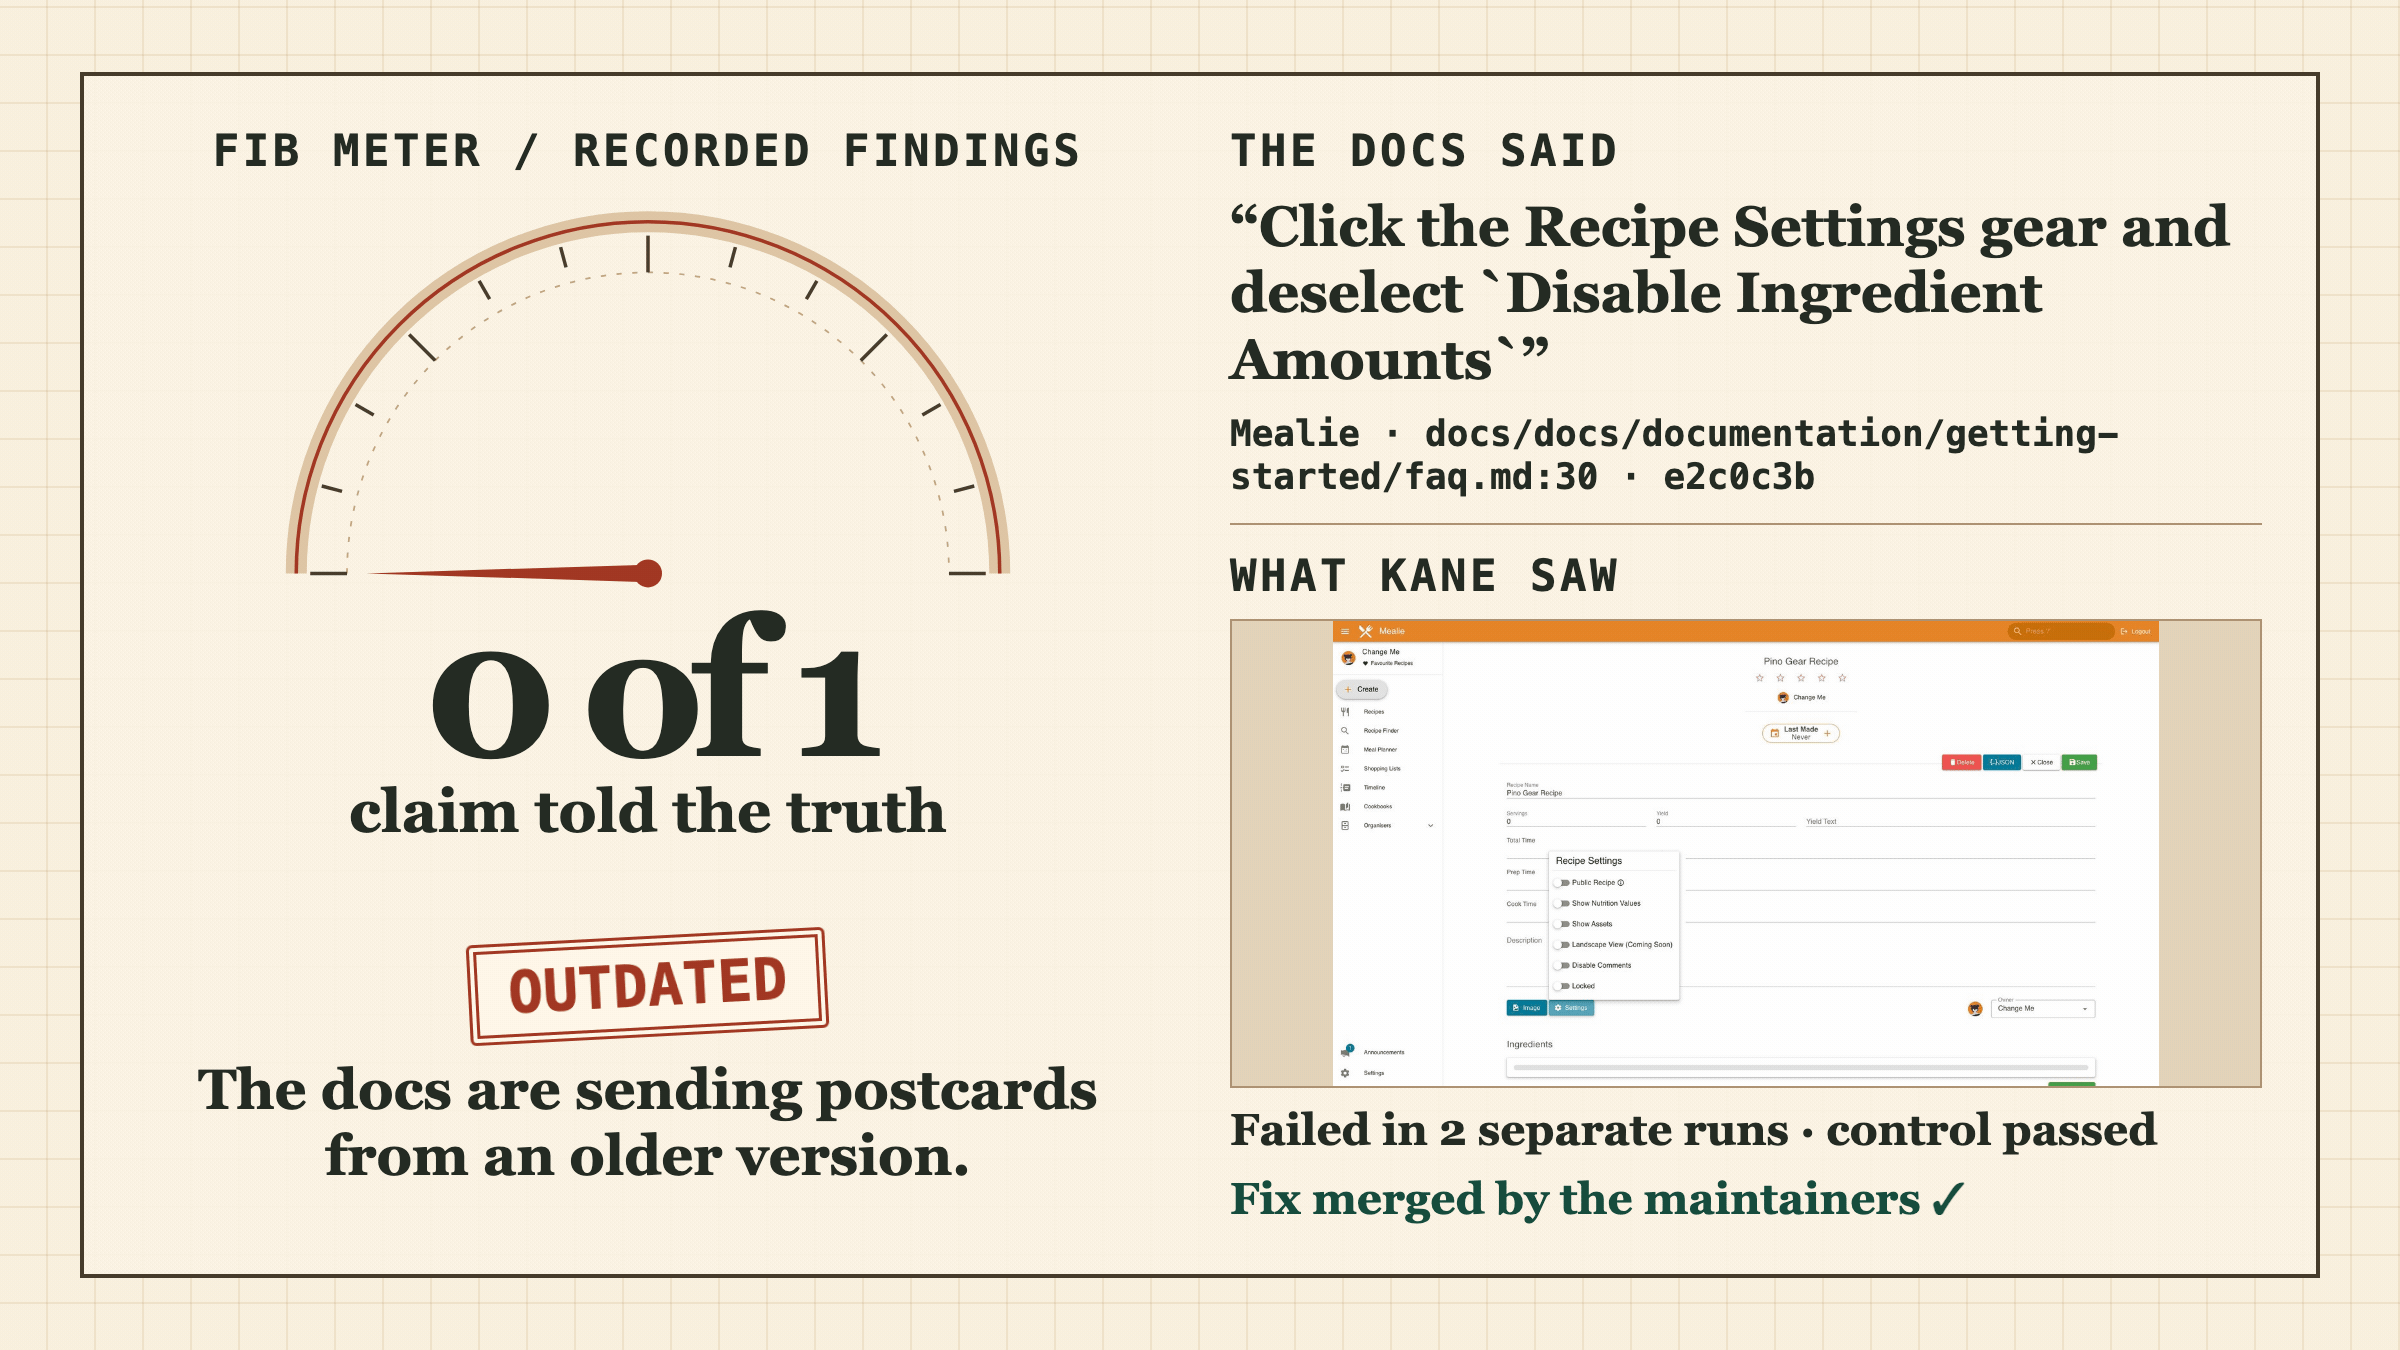
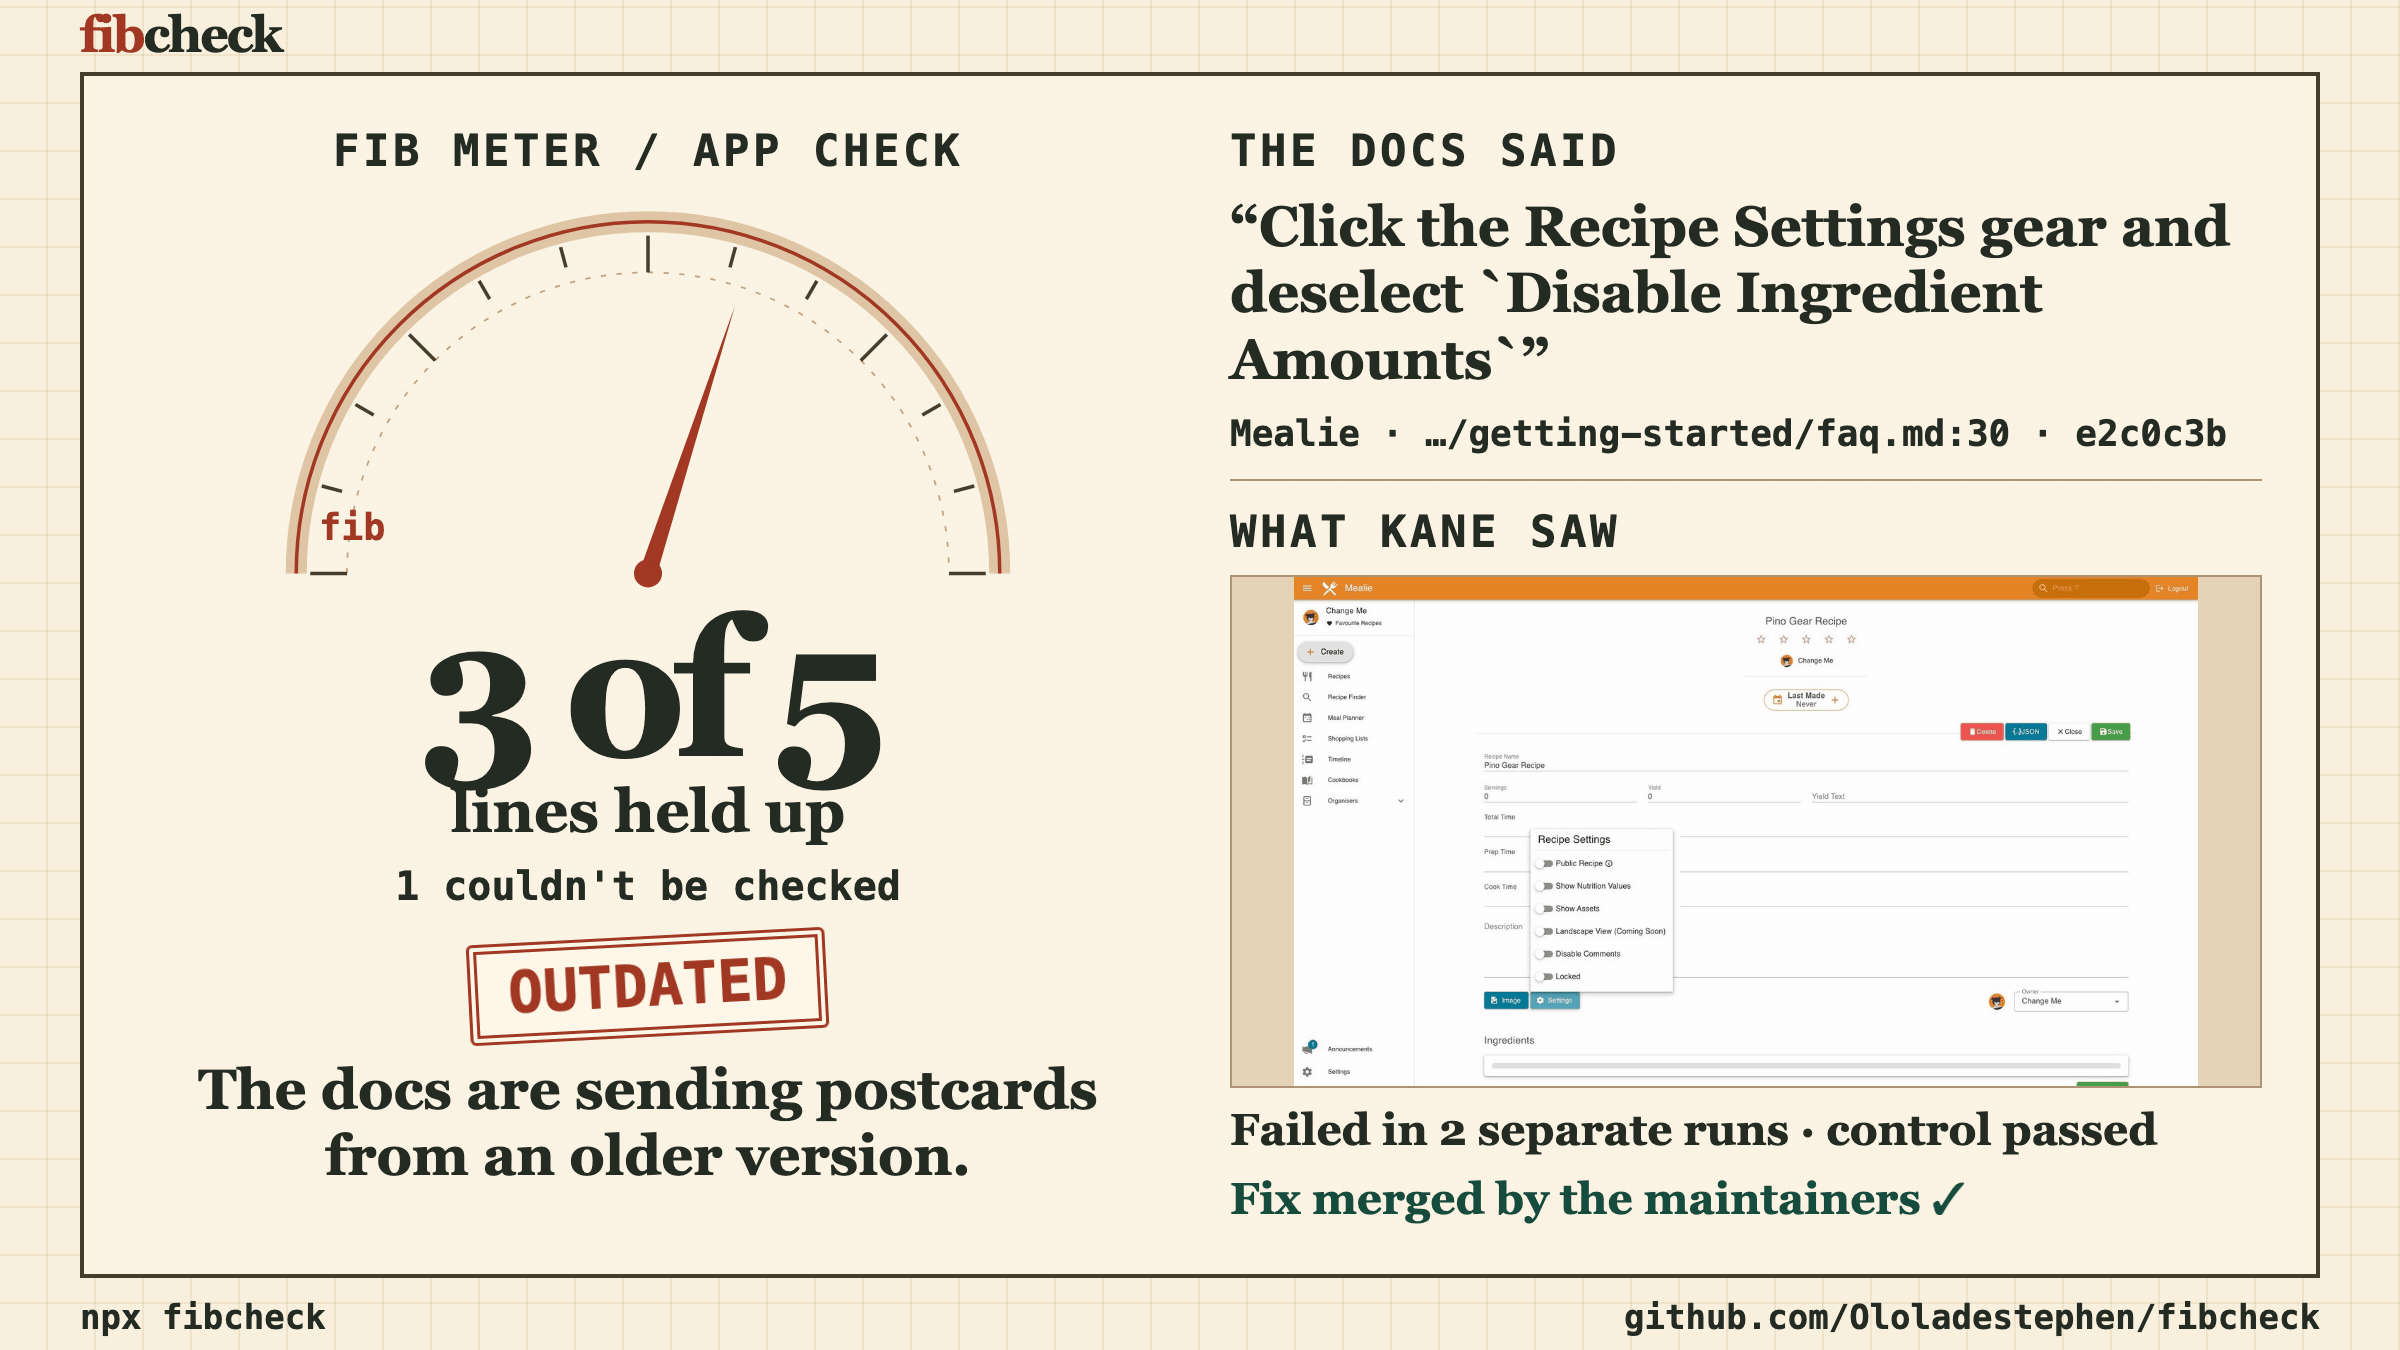
Show app scores and sharpen the card animation

diff --git a/src/card/html.ts b/src/card/html.ts
@@ -7,8 +7,8 @@ const escapeHtml = (text: string) => text.replace(/[&<>"'`]/g, (character) => en
 export function renderCardHtml(finding: Finding, imageDataUrl: string, entries: readonly Finding[] = [finding], seconds = 3): string {
   const text = cardText(finding, entries);
   const time = Number.isFinite(seconds) ? Math.max(0, Math.min(seconds, 3)) : 3;
-  const angle = text.resolved ? -90 + 180 * text.held / text.resolved : 0;
-  const count = Math.round(text.held * Math.min(1, Math.max(0, (time - 0.55) / 1.05)));
+  const angle = text.denominator ? -90 + 180 * text.held / text.denominator : 0;
+  const count = Math.round(text.held * Math.min(1, Math.max(0, (time - 1.2) / 0.7)));
   const tone = finding.verdict === "true" || finding.verdict === "worded_differently" ? "#164c3d" : finding.verdict === "unconfirmed" ? "#5a544b" : "#a13722";
   const ticks = Array.from({ length: 13 }, (_, i) => `<line x1="240" y1="27" x2="240" y2="${i % 3 === 0 ? 48 : 39}" transform="rotate(${i * 15 - 90} 240 220)"/>`).join("");
   return `<!doctype html>
@@ -27,35 +27,38 @@ main{display:grid;grid-template-columns:510px minmax(0,1fr);grid-template-rows:m
 .truth{font:bold 30px/1.13 Georgia,serif}
 .notes{font-size:20px;min-height:27px;margin-top:8px}
 .verdict{text-align:center;margin-top:10px}
-.stamp{display:inline-block;border:5px double currentColor;border-radius:3px;background:#fff7e9;color:var(--tone);padding:2px 15px;font:900 29px/1.25 Menlo,Consolas,monospace;animation:land 2.35s linear var(--time) both paused}
+.stamp{display:inline-block;border:5px double currentColor;border-radius:3px;background:#fff7e9;color:var(--tone);padding:2px 15px;font:900 29px/1.25 Menlo,Consolas,monospace;animation:land 2.1s linear var(--time) both paused}
 .caption{font:bold 28px/1.18 Georgia,serif;margin:10px auto 0;max-width:510px}
 .right{min-width:0;display:grid;grid-template-rows:minmax(164px,auto) minmax(0,1fr);gap:12px}
-.quote{font:bold 28px/1.19 Georgia,serif;margin:8px 0 9px;overflow-wrap:anywhere}
-.source{font-size:18px;overflow-wrap:anywhere}
+.quote{font:bold 28px/1.19 Georgia,serif;margin:8px 0 9px;overflow-wrap:normal}
+.source{font-size:18px;overflow-wrap:normal}
 .proof{border-top:1px solid #ad9273;padding-top:12px;display:flex;flex-direction:column;min-height:0}
 .shot{margin-top:8px;flex:1 1 265px;max-height:265px;min-height:0;background:#e3d3b9;border:1px solid #ad9273}
 .shot img{display:block;width:100%;height:100%;object-fit:contain}
 .evidence{font:700 22px/1.21 Georgia,serif;margin-top:8px;flex:none}
 .merged{color:#164c3d}
-.needle{transform-origin:240px 220px;animation:needle 1.65s ease-in-out var(--time) both paused}
-@keyframes needle{0%{transform:rotate(-86deg)}9%{transform:rotate(-51deg)}17%{transform:rotate(-100deg)}25%{transform:rotate(-35deg)}34%{transform:rotate(-83deg)}100%{transform:rotate(var(--angle))}}
-@keyframes land{0%,74%{opacity:0;transform:translateY(-4px) rotate(-3deg) scale(1.08)}75%{opacity:1;transform:translateY(-4px) rotate(-3deg) scale(1.08)}87%{transform:translateY(4px) rotate(-3deg) scale(.98)}94%{transform:translateY(-5px) rotate(-4deg)}100%{opacity:1;transform:rotate(-3deg)}}
+.fib{font:700 21px Menlo,Consolas,monospace;fill:#a13722}
+.needle{transform-origin:240px 220px;animation:needle 1.85s linear var(--time) both paused}
+@keyframes needle{0%{transform:rotate(-85deg)}5.4%{transform:rotate(82deg)}10.8%{transform:rotate(-72deg)}16.2%{transform:rotate(71deg)}21.6%{transform:rotate(-86deg)}27%{transform:rotate(37deg)}32.4%{transform:rotate(-51deg)}37.8%{transform:rotate(84deg)}43.2%{transform:rotate(-80deg)}48.6%{transform:rotate(61deg)}54%{transform:rotate(-39deg)}59.4%{transform:rotate(80deg)}64.9%{transform:rotate(-62deg);animation-timing-function:cubic-bezier(.2,.8,.3,1)}100%{transform:rotate(var(--angle))}}
+@keyframes land{0%,90%{opacity:0;transform:translateY(-4px) rotate(-3deg) scale(1.08)}91%{opacity:1;transform:translateY(-4px) rotate(-3deg) scale(1.08)}94%{transform:translateY(4px) rotate(-3deg) scale(.98)}97%{transform:translateY(-3px) rotate(-4deg)}100%{opacity:1;transform:rotate(-3deg)}}
+.wordmark,.byline{position:absolute;left:40px;right:40px;color:var(--ink)}.wordmark{top:5px;font:bold 25px/1 Georgia,serif;letter-spacing:-.04em}.wordmark span{color:#a13722}.byline{bottom:8px;display:flex;justify-content:space-between;font:600 17px/1 Menlo,Consolas,monospace}
 </style></head>
-<body><main><section class="left" aria-label="Recorded findings score">
-<div class="label">Fib meter / Recorded findings</div>
+<body><header class="wordmark"><span>fib</span>check</header><main><section class="left" aria-label="${escapeHtml(text.scope)} score">
+<div class="label">Fib meter / ${escapeHtml(text.scope)}</div>
 <svg class="meter" viewBox="0 0 480 235" aria-hidden="true">
 <path d="M39 220a201 201 0 0 1 402 0" fill="none" stroke="#dec6a5" stroke-width="12"/>
 <path d="M39 220a201 201 0 0 1 402 0" fill="none" stroke="currentColor" stroke-width="2"/>
 <path d="M68 220a172 172 0 0 1 344 0" fill="none" stroke="#bea583" stroke-width="1" stroke-dasharray="3 6"/>
 <g stroke="#493c2a" stroke-width="2">${ticks}</g>
+<text class="fib" x="52" y="201">fib</text>
 ${text.resolved ? '<path class="needle" d="M235 220L240 59l5 161Z" fill="currentColor"/>' : ""}<circle cx="240" cy="220" r="8" fill="currentColor"/>
 </svg>
-${text.resolved ? `<div aria-label="${escapeHtml(text.score)}"><div class="score">${count} of ${text.resolved}</div><div class="truth">${text.resolved === 1 ? "claim" : "claims"} told the truth</div></div>` : `<div class="score empty">${escapeHtml(text.score)}</div>`}
+${text.denominator ? `<div aria-label="${escapeHtml(text.score)}"><div class="score">${count} of ${text.denominator}</div><div class="truth">${escapeHtml(text.suffix)}</div></div>` : `<div class="score empty">${escapeHtml(text.score)}</div>`}
 <div class="notes">${escapeHtml(text.note)}</div>
 <div class="verdict"><div class="stamp">${escapeHtml(text.stamp)}</div><p class="caption">${escapeHtml(text.caption)}</p></div>
 </section><aside class="right"><section><div class="label">The docs said</div><blockquote class="quote">“${escapeHtml(text.quote)}”</blockquote><p class="source">${escapeHtml(text.source)}</p></section>
 <figure class="proof"><figcaption class="label">What Kane saw</figcaption><div class="shot"><img alt="Kane screenshot, scaled only" src="${escapeHtml(imageDataUrl)}"></div>
 ${text.evidence ? `<div class="evidence">${escapeHtml(text.evidence)}</div>` : ""}${text.merged ? `<div class="evidence merged">${escapeHtml(text.merged)}</div>` : ""}</figure>
-</aside></main></body></html>
+</aside></main><footer class="byline"><b>npx fibcheck</b><span>github.com/Ololadestephen/fibcheck</span></footer></body></html>
 `;
 }

diff --git a/src/card/copy.ts b/src/card/copy.ts
@@ -23,6 +23,18 @@ const ownCaptions: Partial<typeof captions> = {
   outdated: ["Our README is living in the past.", "Our docs have declined to update their priors."],
 };
 
+type AppScore = { held: number; failed: number; unconfirmed: number; worded: number };
+
+// The README and docs/wiki verdict tables in index/README.md, plus the two earlier
+// Linkding findings. Soryn comes from its saved seven-claim check and wording finding.
+// Do not subtract the old finding totals from claims: that would count unknowns as held.
+const appScores: Readonly<Record<string, AppScore>> = {
+  "mealie-recipes/mealie@e2c0c3b1bfd7a785dde8e9704f1c8475333613ae": { held: 3, failed: 1, unconfirmed: 1, worded: 0 },
+  "louislam/uptime-kuma.wiki@cf7fe32": { held: 3, failed: 1, unconfirmed: 1, worded: 0 },
+  "sissbruecker/linkding@27b7303baf41bb28babc610ac8eaa486e1ddfab5": { held: 3, failed: 2, unconfirmed: 1, worded: 0 },
+  "Soryn@8876c08": { held: 7, failed: 0, unconfirmed: 0, worded: 1 },
+};
+
 export function countVerdicts(finding: Finding, entries: readonly Finding[]) {
   const byClaim = new Map<string, ClaimVerdict>();
   for (const { source, quote, verdict } of entries) {
@@ -49,21 +61,39 @@ export function evidenceLine(finding: Finding): string {
   ].filter(Boolean).join(" · ");
 }
 
-export function cardText(finding: Finding, entries: readonly Finding[] = [finding]) {
-  const counts = countVerdicts(finding, entries);
+function scoreCopy(finding: Finding, entries: readonly Finding[]) {
+  const { repo, commit } = finding.source;
+  const app = appScores[`${repo}@${commit}`];
+  const counts = app ? { ...app, resolved: app.held + app.failed } : countVerdicts(finding, entries);
   const { held, resolved, worded, unconfirmed } = counts;
+  const denominator = app ? resolved + unconfirmed : resolved;
+  const suffix = app
+    ? `${denominator === 1 ? "line" : "lines"} held up`
+    : `${denominator === 1 ? "claim" : "claims"} told the truth`;
+  return { held, resolved, worded, unconfirmed, denominator, suffix, scope: app ? "App check" : "Recorded findings" };
+}
+
+function verdictNote(verdict: ClaimVerdict, worded: number, unconfirmed: number): string {
+  return [worded && verdict !== "worded_differently" ? `${worded} worded differently` : "", unconfirmed ? `${unconfirmed} couldn't be checked` : ""].filter(Boolean).join(" · ");
+}
+
+export function cardText(finding: Finding, entries: readonly Finding[] = [finding]) {
+  const counts = scoreCopy(finding, entries);
+  const { held, resolved, worded, unconfirmed, denominator, suffix } = counts;
+  const { file, line, commit } = finding.source;
   const pool = (finding.own ? ownCaptions[finding.verdict] : undefined) ?? captions[finding.verdict];
   const pickSecond = createHash("sha256").update(finding.id).digest().readUInt8(0) >= 128;
   const quote = [...finding.quote.replace(/\s+/gu, " ").trim()];
-  const { file, line, commit } = finding.source;
+  const segments = file.split("/");
+  const path = segments.length > 2 ? `…/${segments.slice(-2).join("/")}` : file;
   return {
     ...counts,
     stamp: finding.verdict === "true" && (held < resolved || unconfirmed > 0) ? "HELD" : stamps[finding.verdict],
     caption: pickSecond ? pool[1] : pool[0],
     quote: quote.length > 90 ? `${quote.slice(0, 89).join("").trimEnd()}…` : quote.join(""),
-    source: `${finding.project} · ${file}:${line} · ${commit.slice(0, 7)}`,
-    score: resolved ? `${held} of ${resolved} ${resolved === 1 ? "claim" : "claims"} told the truth` : "No resolved claims",
-    note: [worded ? `${worded} worded differently` : "", unconfirmed ? `${unconfirmed} couldn't be checked` : ""].filter(Boolean).join(" · "),
+    source: `${finding.project} · ${path}:${line} · ${commit.slice(0, 7)}`,
+    score: denominator ? `${held} of ${denominator} ${suffix}` : "No resolved claims",
+    note: verdictNote(finding.verdict, worded, unconfirmed),
     evidence: evidenceLine(finding),
     merged: finding.upstream?.status === "merged" ? "Fix merged by the maintainers ✓" : "",
   };

diff --git a/src/card.ts b/src/card.ts
@@ -26,8 +26,8 @@ export function findChrome(env: NodeJS.ProcessEnv = process.env): string {
 /** Cards are laid out at 1200 by 675 and drawn at twice that, 2400 by 1350 pixels, so they stay sharp on phone and retina screens. */
 export const CARD_SCALE = 2;
 
-const FRAMES = 27;
-const FPS = 9;
+const FRAMES = 30;
+const FPS = 10;
 const END = (FRAMES - 1) / FPS;
 const frameName = (index: number) => `frame-${String(index).padStart(2, "0")}.png`;
 
@@ -49,9 +49,12 @@ function renderGif(work: string, frame: (index: number) => void, png: string): v
   const run = (args: string[]) => execFileSync("ffmpeg", ["-nostdin", "-v", "error", "-y", ...args], { cwd: work, timeout: 60_000 });
   for (let index = 0; index < FRAMES - 1; index++) frame(index);
   const input = ["-framerate", String(FPS), "-i", "frame-%02d.png"];
-  run([...input, "-vf", "palettegen", "-frames:v", "1", "-update", "1", "palette.png"]);
-  run([...input, "-i", "palette.png", "-lavfi", "paletteuse=dither=bayer:bayer_scale=3:diff_mode=rectangle", "-loop", "0", "card.gif"]);
-  if (statSync(join(work, "card.gif")).size >= 5_000_000) throw new Error(`GIF exceeds 5 MB. PNG saved to ${png}.`);
+  for (const maxColors of [256, 128, 64]) {
+    run([...input, "-vf", `palettegen=max_colors=${maxColors}`, "-frames:v", "1", "-update", "1", "palette.png"]);
+    run([...input, "-i", "palette.png", "-lavfi", "paletteuse=dither=bayer:bayer_scale=3:diff_mode=rectangle", "-loop", "0", "card.gif"]);
+    if (statSync(join(work, "card.gif")).size < 1_000_000) break;
+  }
+  if (statSync(join(work, "card.gif")).size >= 1_000_000) throw new Error(`GIF exceeds 1 MB. PNG saved to ${png}.`);
   // GIF uses a 256-colour palette. Decode its last frame so the paired PNG matches pixel for pixel.
   run(["-i", "card.gif", "-vf", `select=eq(n\\,${FRAMES - 1}),format=rgb24`, "-frames:v", "1", "-update", "1", "final.png"]);
   copyFileSync(join(work, "card.gif"), png.replace(/\.png$/, ".gif"));

diff --git a/src/card.test.ts b/src/card.test.ts
@@ -127,11 +127,18 @@ describe("the recorded findings", () => {
   });
 
   it("score each project from its recorded verdicts, never from legacy totals", () => {
-    expect(score("mealie-faq-disable-ingredient-amounts")).toMatchObject({ score: "0 of 1 claim told the truth", stamp: "OUTDATED", merged: "Fix merged by the maintainers ✓" });
-    expect(score("uptime-kuma-wiki-maintenance-menu").score).toBe("0 of 1 claim told the truth");
-    expect(score("linkding-admin-tab").score).toBe("0 of 2 claims told the truth");
-    expect(score("linkding-tags-only-create-or-assign").score).toBe("0 of 2 claims told the truth");
-    expect(score("soryn-readme-basic-attack")).toMatchObject({ score: "1 of 1 claim told the truth", note: "1 worded differently", evidence: "Behaviour held in Kane's run" });
+    expect(score("mealie-faq-disable-ingredient-amounts")).toMatchObject({
+      score: "3 of 5 lines held up", note: "1 couldn't be checked", stamp: "OUTDATED", merged: "Fix merged by the maintainers ✓",
+      source: "Mealie · …/getting-started/faq.md:30 · e2c0c3b",
+    });
+    expect(score("uptime-kuma-wiki-maintenance-menu").score).toBe("3 of 5 lines held up");
+    expect(score("linkding-admin-tab").score).toBe("3 of 6 lines held up");
+    expect(score("linkding-tags-only-create-or-assign").score).toBe("3 of 6 lines held up");
+    expect(score("soryn-readme-basic-attack")).toMatchObject({ score: "7 of 7 lines held up", note: "", worded: 1, evidence: "Behaviour held in Kane's run" });
+  });
+
+  it("falls back to the finding when no app total is available", () => {
+    expect(cardText({ ...base, score: { findings: 1, claims: 50 } })).toMatchObject({ score: "0 of 1 claim told the truth", scope: "Recorded findings" });
   });
 });
 
